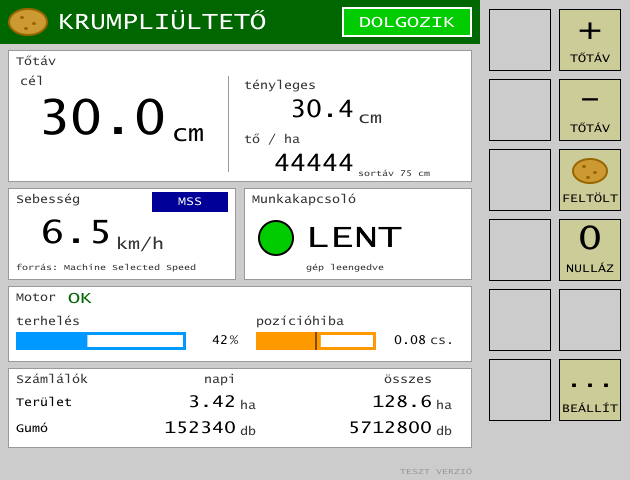
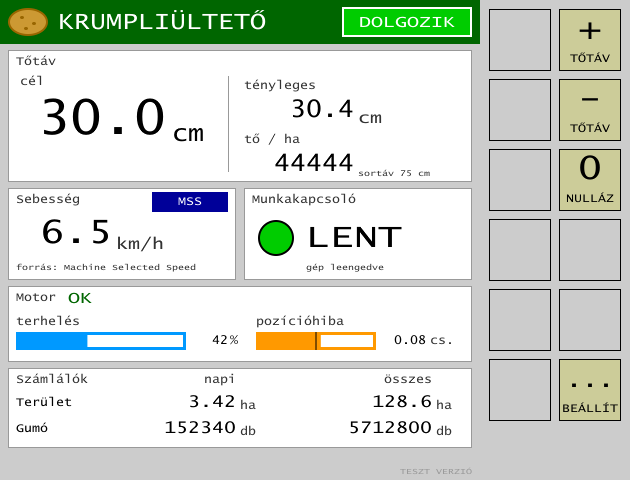
Remove the prime soft key, add WTFPL licence

Changed region(s): [[0.8746, 0.3125, 0.9952, 0.5938]]

diff --git a/tools/make_pool.py b/tools/make_pool.py
@@ -212,7 +212,6 @@ SKM_MAIN, SKM_SETTINGS, SKM_SERVICE, SKM_ALARM = 2000, 2001, 2002, 2100
 KEYS = {
     "KEY_SPACING_UP": (5000, 1),
     "KEY_SPACING_DOWN": (5001, 2),
-    "KEY_PRIME": (5002, 3),
     "KEY_RESET_COUNTERS": (5003, 4),
     "KEY_SETTINGS": (5004, 5),
     "KEY_SERVICE": (5005, 6),
@@ -315,9 +314,6 @@ def build():
     # --- Soft keys --------------------------------------------------------------------------
     key_label(p, "KEY_SPACING_UP", "+", "TŐTÁV")
     key_label(p, "KEY_SPACING_DOWN", "-", "TŐTÁV")
-    p.key(KEYS["KEY_PRIME"][0], KEYS["KEY_PRIME"][1],
-          offset(potato_icon(p, 36, 26), 12, 8) + [(p.text(60, 18, "FELTÖLT", BLACK, F8x12, CENTER | MIDDLE), 0, 40)],
-          name="KEY_PRIME")
     key_label(p, "KEY_RESET_COUNTERS", "0", "NULLÁZ")
     key_label(p, "KEY_SETTINGS", "...", "BEÁLLÍT", F16x24)
     key_label(p, "KEY_SERVICE", "S", "SZERVIZ")
@@ -326,8 +322,8 @@ def build():
     key_label(p, "KEY_ALARM_ACK", "OK", "NYUGTA", F24x32, DARK_GREEN)
 
     k = {name: object_id for name, (object_id, _) in KEYS.items()}
-    p.soft_key_mask(SKM_MAIN, [k["KEY_SPACING_UP"], k["KEY_SPACING_DOWN"], k["KEY_PRIME"],
-                               k["KEY_RESET_COUNTERS"], NONE, k["KEY_SETTINGS"]], name="SKM_MAIN")
+    p.soft_key_mask(SKM_MAIN, [k["KEY_SPACING_UP"], k["KEY_SPACING_DOWN"], k["KEY_RESET_COUNTERS"],
+                               NONE, NONE, k["KEY_SETTINGS"]], name="SKM_MAIN")
     p.soft_key_mask(SKM_SETTINGS, [k["KEY_HOME"], NONE, NONE, NONE, NONE, k["KEY_SERVICE"]], name="SKM_SETTINGS")
     p.soft_key_mask(SKM_SERVICE, [k["KEY_HOME"], NONE, k["KEY_CALIBRATE"]], name="SKM_SERVICE")
     p.soft_key_mask(SKM_ALARM, [k["KEY_ALARM_ACK"]], name="SKM_ALARM")

diff --git a/include/krumpli_pool_ids.hpp b/include/krumpli_pool_ids.hpp
@@ -21,7 +21,6 @@ namespace krumpli_pool
 	// Soft keys (object ids)
 	constexpr std::uint16_t KEY_SPACING_UP = 5000;
 	constexpr std::uint16_t KEY_SPACING_DOWN = 5001;
-	constexpr std::uint16_t KEY_PRIME = 5002;
 	constexpr std::uint16_t KEY_RESET_COUNTERS = 5003;
 	constexpr std::uint16_t KEY_SETTINGS = 5004;
 	constexpr std::uint16_t KEY_SERVICE = 5005;
@@ -31,7 +30,6 @@ namespace krumpli_pool
 	// Soft key codes (Soft Key Activation message)
 	constexpr std::uint8_t KEY_SPACING_UP_CODE = 1;
 	constexpr std::uint8_t KEY_SPACING_DOWN_CODE = 2;
-	constexpr std::uint8_t KEY_PRIME_CODE = 3;
 	constexpr std::uint8_t KEY_RESET_COUNTERS_CODE = 4;
 	constexpr std::uint8_t KEY_SETTINGS_CODE = 5;
 	constexpr std::uint8_t KEY_SERVICE_CODE = 6;

diff --git a/docs/krumpliulteto-vezerlo.md b/docs/krumpliulteto-vezerlo.md
@@ -99,7 +99,6 @@ dolgozik = munkakapcsoló_lent && v > v_min && sebességforrás_érvényes && !r
 
 - **Emeléskor** a pozícióhibát **befagyasztjuk**, nem nullázzuk → visszaengedéskor pontosan onnan folytatja, nincs dupla vagy kihagyott gumó a forduló után.
 - Opcionális paraméter: **indulási előretolás** (néhány cm vagy csésze), ha a szélen kell korrekció.
-- **Feltöltés / tesztforgatás** gomb a VT-n: kézzel forgatja a csészesort álló gépnél (csak munkakapcsoló fent + álló gép mellett engedélyezve).
 
 ---
 
@@ -139,11 +138,10 @@ dolgozik = munkakapcsoló_lent && v > v_min && sebességforrás_érvényes && !r
 - Motor túláram / meghajtó hiba
 
 ### Softkey-ek
-- Feltöltés / tesztforgatás
 - Számláló nullázás
 - Tőtáv +/- lépés
 
-AUX-N funkciók (opcionális): tőtáv +/-, feltöltés.
+AUX-N funkciók (opcionális): tőtáv +/-.
 
 ---
 
@@ -151,7 +149,7 @@ AUX-N funkciók (opcionális): tőtáv +/-, feltöltés.
 
 - Bármely tiltó riasztás → motor áll.
 - Busz-kiesés (nincs sebesség) → motor áll, riasztás.
-- Tesztforgatás csak álló gépnél és felemelt munkakapcsolónál.
+- Forgatásos kalibráció csak álló gépnél és felemelt munkakapcsolónál.
 - Motor indulási áramkorlát, lágyindítás.
 
 ---

diff --git a/README.md b/README.md
@@ -30,7 +30,7 @@ kódolással (font type 2), így az ő és ű is helyesen jelenik meg. A kijelze
 
 Cél tőtáv (bevihető), tényleges tőtáv, tő/ha, sebesség és forrása, munkakapcsoló, motor állapot és
 terhelés, pozícióhiba, napi és összes terület és gumószám.
-Softkey-ek: tőtáv +/−, feltöltés / tesztforgatás, számlálók nullázása, beállítások.
+Softkey-ek: tőtáv +/−, számlálók nullázása, beállítások.
 
 ### Beállítások és szerviz
 
@@ -87,3 +87,7 @@ Az [AgIsoStack++](https://github.com/Open-Agriculture/AgIsoStack-plus-plus) VT k
 - [ ] Firmware: VT kliens, sebesség/távolság olvasás, távolságkövető motorszabályzás
 - [ ] Hardver: motor, meghajtó, jeladó kiválasztása (lásd a jegyzet 9. pontját)
 - [ ] Később: TC-BAS, TC-SC, TC-GEO
+
+## Licenc
+
+[WTFPL](LICENSE)
